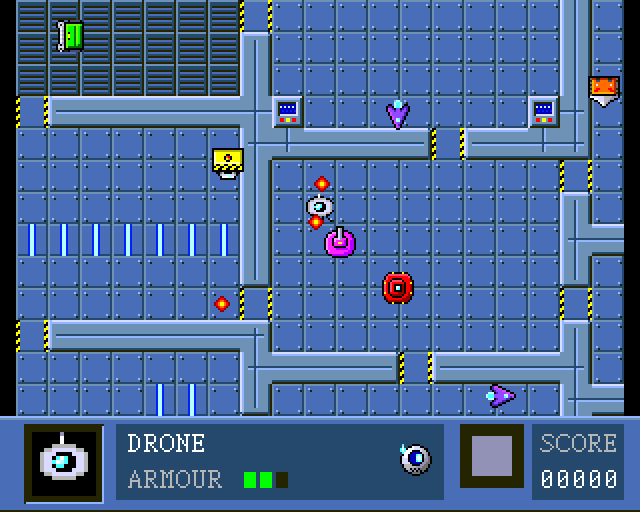
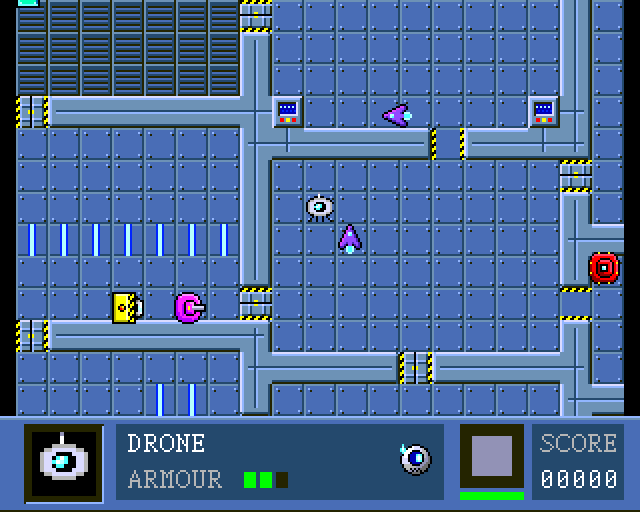
Site update

diff --git a/index.html b/index.html
@@ -23,7 +23,7 @@
   <div class="wrap">
     <a class="brand" href="#" aria-label="Quazadroid, top of the page"><img src="icon.png" width="28" height="28" alt=""><span>Quazadroid</span></a>
     <nav aria-label="Sections">
-      <a href="#how">How it plays</a><a href="#robots">The robots</a><a href="#screens">Screens</a><a href="#progress">Progress</a>
+      <a href="#how">How it plays</a><a href="#robots">The robots</a><a href="#screens">Screens</a><a href="#changes">What's new</a><a href="#progress">Progress</a>
     </nav>
   </div>
 </header>
@@ -58,7 +58,9 @@
     <article class="card"><h3>Smooth scrolling</h3><p>The station scrolls smoothly in every direction, on the Next's own hardware: something the old 8-bit versions of this kind of game could only dream of.</p></article>
     <article class="card"><h3>Ranked by colour</h3><p>Eight kinds of robot, from green sweepers to red overseers. Each one does a job: cleans, carries, mends, guards the doors, rams or shoots.</p></article>
     <article class="card"><h3>Dark rooms</h3><p>You only see what's in sight. The rooms behind the walls stay dark until you go in, so you never quite know what's waiting.</p></article>
-    <article class="card"><h3>The station speaks</h3><p>A spacey soundtrack in the spirit of the great 80s sci-fi films, on the Next's three sound chips, and the station's own voice: <i>intruder</i>, <i>access granted</i>.</p></article>
+    <article class="card"><h3>The station speaks</h3><p>A spacey soundtrack in the spirit of the great 80s sci-fi films, on the Next's three sound chips, and the station's own robotic voice: <i>intruder</i>, <i>access granted</i>, <i>alert level red</i>.</p></article>
+    <article class="card"><h3>Consoles, doors and pads</h3><p>Doors slide open as you come near. Consoles show the deck's map and the files on every robot your rank may know. Recharge pads patch you up, once.</p></article>
+    <article class="card"><h3>Play your way</h3><p>Keys you can choose, the cursor keys, or a Kempston joystick. H pauses. The high score is saved on your SD card.</p></article>
     <article class="card"><h3>One sitting</h3><p>A game you can finish in an evening: twenty to forty minutes, top to bottom. An easy mode on the title screen for younger players.</p></article>
   </div>
 </section>
@@ -86,8 +88,26 @@
   <div class="gallery">
     <a class="shot" href="shots/title.png" data-caption="The title screen, over the live deck. Work in progress."><img src="shots/title.png" width="640" height="512" loading="lazy" alt="The title screen: QUAZADROID in chrome letters, TAKE OVER THE MACHINES, over a steel deck with robots"></a>
     <a class="shot" href="shots/fight.png" data-caption="Under fire: a sentry and an overseer open up on the drone, and the runner and bruiser close in. Work in progress."><img src="shots/fight.png" width="640" height="512" loading="lazy" alt="The drone in a steel room, red enemy shots flying at it from a pink sentry and a red overseer, the panel showing its armour, its worried face and the score"></a>
+    <a class="shot" href="shots/console.png" data-caption="A console: the deck's map, every robot on it, and you, blinking. Work in progress."><img src="shots/console.png" width="640" height="512" loading="lazy" alt="A station console showing the deck's map: grey walls, dark blue rooms, coloured dots for the robots"></a>
+    <a class="shot" href="shots/files.png" data-caption="The robot files, as far as your rank allows. Work in progress."><img src="shots/files.png" width="640" height="512" loading="lazy" alt="A console's robot file: the red Overseer, big, with its armour, speed, weapon and a dry description"></a>
     <a class="shot" href="shots/puzzle.png" data-caption="Plugged into a sentry: turn the wires to reach its core before its signal does. Work in progress."><img src="shots/puzzle.png" width="640" height="512" loading="lazy" alt="The takeover puzzle: a grid of wire pieces on a metal board, the robot's red signal creeping along the top towards its core"></a>
     <a class="shot" href="shots/granted.png" data-caption="Access granted: the runner is yours. Work in progress."><img src="shots/granted.png" width="640" height="512" loading="lazy" alt="The puzzle won: a glowing cyan path through the wires to a white core, and ACCESS GRANTED"></a>
+  </div>
+</section>
+
+<section id="changes" class="wrap">
+  <p class="eyebrow">Changelog</p>
+  <h2>What's new</h2>
+  <div class="log card">
+    <article>
+      <header><time datetime="2026-10-27">27 October 2026</time></header>
+      <ul>
+        <li>The station comes alive: doors that slide open as you come near, consoles with the deck map and the robot files, recharge pads, and an alert level that makes the robots keener the more you fight.</li>
+        <li>Sound: a spacey title theme, a quiet score for the decks, effects for every shot, bump and bang, and the station's own robotic voice.</li>
+        <li>Fighting back: tap fire to shoot, hold it to plug in; robots shoot, ram, mend and call for help; wrecks, a score, and the drone's worried face on the panel.</li>
+        <li>Joystick, cursor keys or your own keys; H to pause; the high score is saved to the SD card.</li>
+      </ul>
+    </article>
   </div>
 </section>
 
@@ -101,8 +121,10 @@
       <li class="done"><b>The takeover</b><span>The wiring puzzle, winning and losing, and riding the robot you won.</span></li>
       <li class="done"><b>The title screen</b><span>Chrome letters over the live deck.</span></li>
       <li class="done"><b>Fighting back</b><span>Shooting eight ways, ramming, crossfire, explosions and wrecks, doors only a warden can open, a score, and the drone's face on the panel wincing as it's hurt.</span></li>
+      <li class="done"><b>The station comes alive</b><span>Sliding doors, consoles with the deck map and robot files, recharge pads, an alert level, and a few secrets.</span></li>
+      <li class="done"><b>Sound</b><span>A spacey title theme, a quiet deck score, effects, and the station's robotic voice.</span></li>
+      <li class="done"><b>Your controls</b><span>Redefinable keys, cursor keys and joystick, pause, and the high score saved to the SD card.</span></li>
       <li class="now"><b>Down the station</b><span>Dark rooms, six decks and their lifts, and the reactor.</span></li>
-      <li><b>Sound</b><span>The music, the effects and the station's voice.</span></li>
     </ol>
     <p class="meta">No test build yet. When there is one, it'll be here.</p>
   </div>

diff --git a/site.css b/site.css
@@ -121,3 +121,9 @@ main > section { padding: 80px 0 0; }
   .milestones li { grid-template-columns: 24px 1fr; }
   .milestones li span { grid-column: 2; }
 }
+
+/* the changelog */
+.log { padding: 24px 28px; }
+.log header { display: flex; gap: 12px; align-items: baseline; margin-bottom: 8px; color: var(--primary); font-weight: 700; }
+.log ul { margin: 0; padding-left: 20px; color: var(--muted); }
+.log li { margin-bottom: 6px; }
